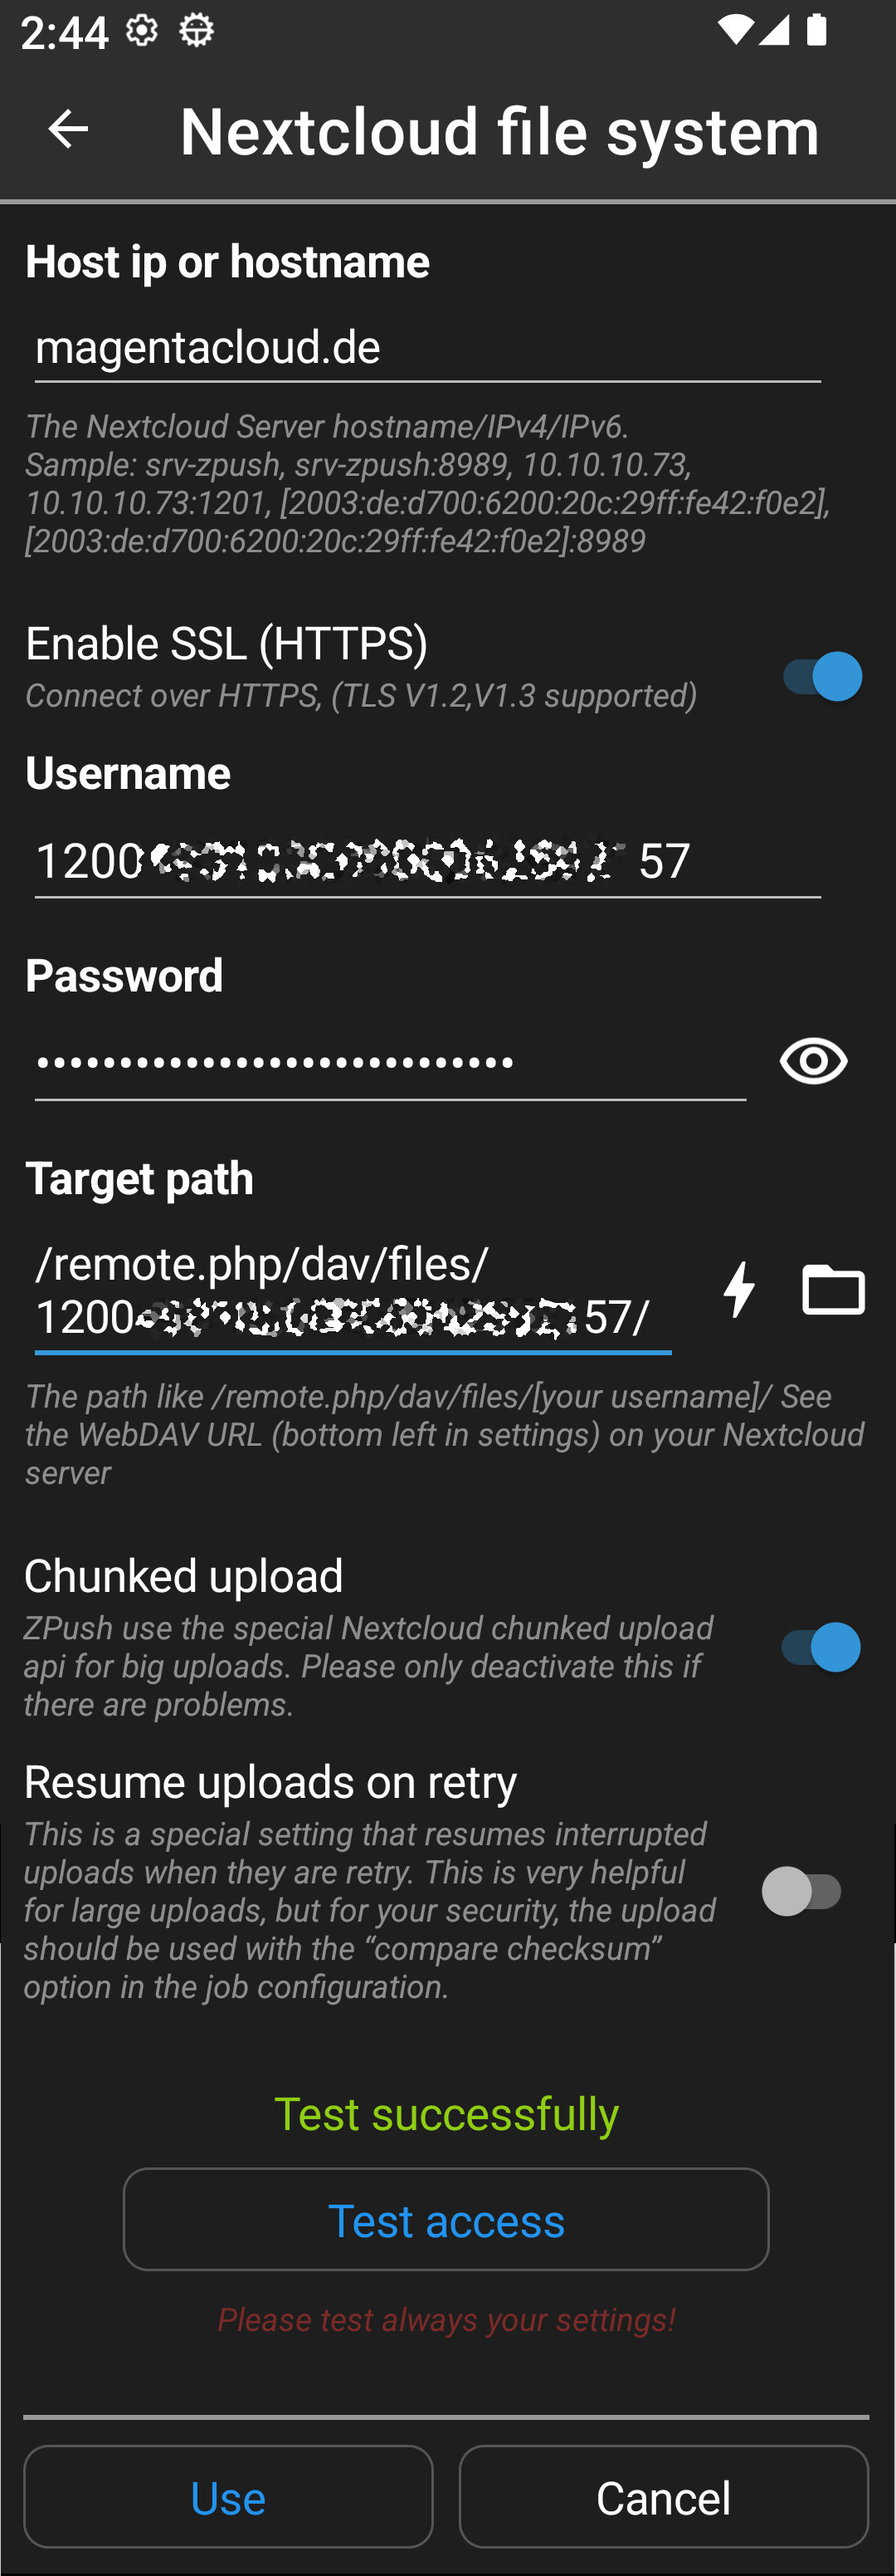
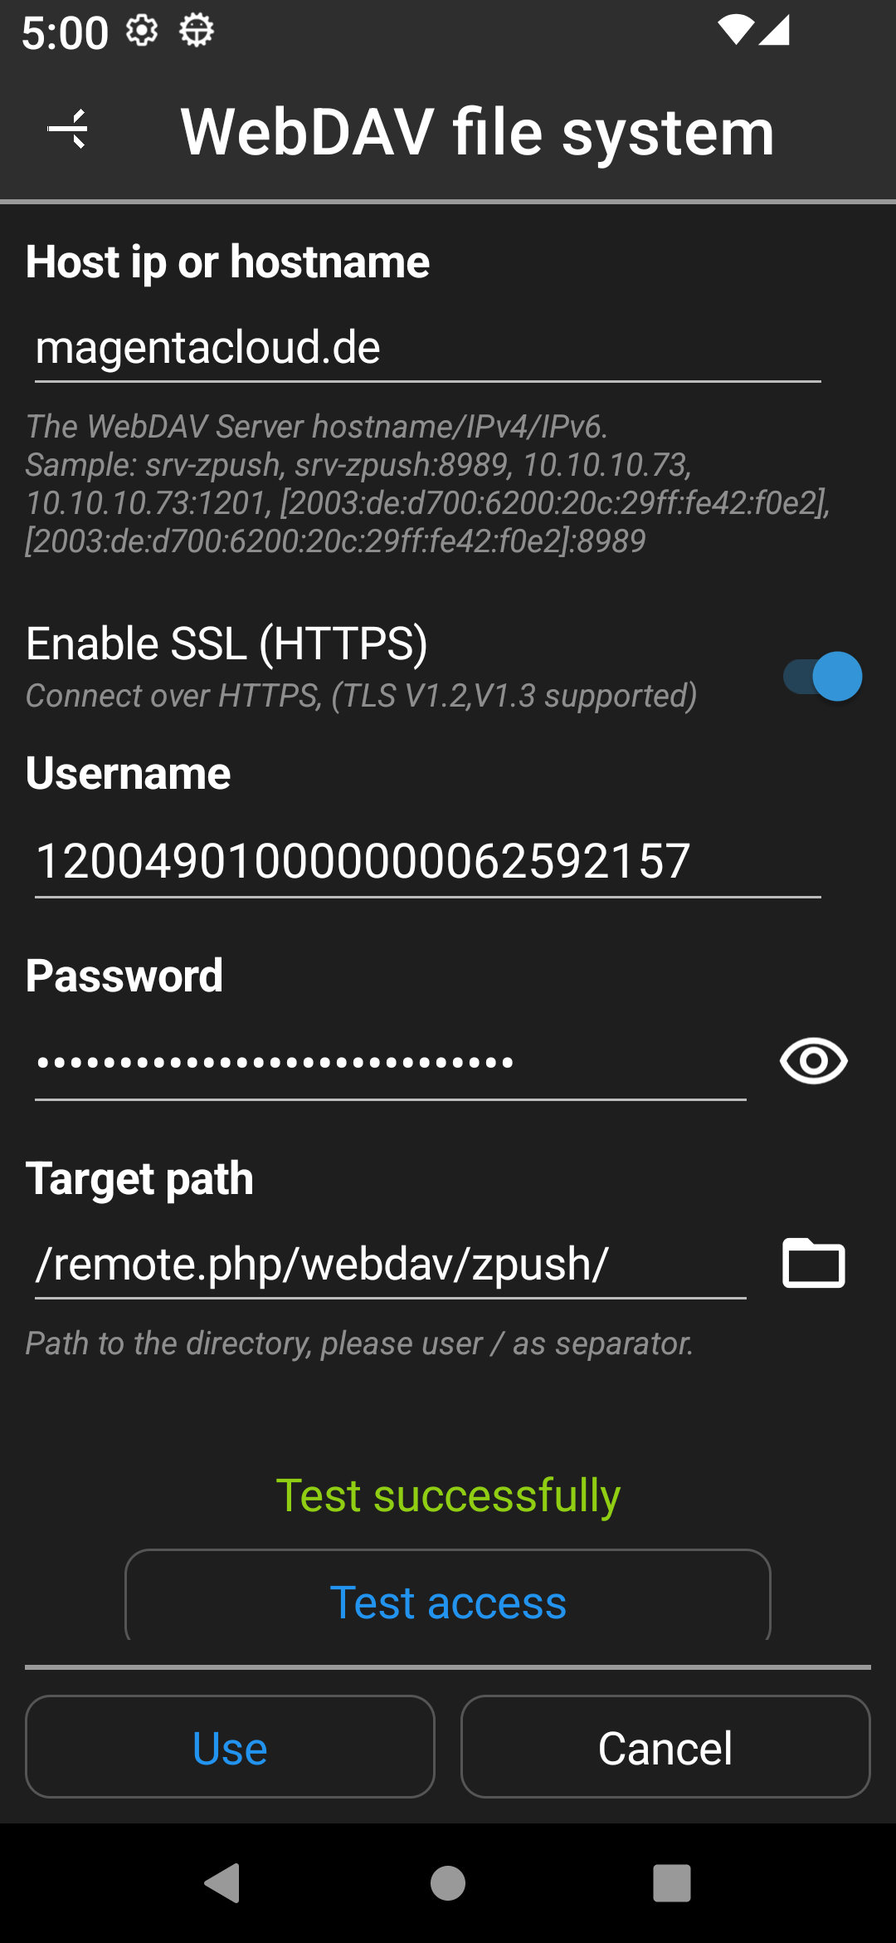
change MangentaCLOUD to  WebDAV

diff --git a/docs/index.html b/docs/index.html
@@ -759,9 +759,7 @@
             <H2>MangentaCLOUD</H2>
             <p class="center">
                 ZPush works in conjunction with MangentaCLOUD and is
-                configured using the built-in “Nextcloud” or “WebDAV” driver.
-                The Nextcloud driver has the advantage of being able to handle even very large uploads.
-                In the following example, I use the Nextcloud driver.
+                configured using the built-in “WebDAV” driver.
 
             </p>
             <H3>Step 1: Add a new device in MangentaCLOUD</H3>
@@ -770,7 +768,7 @@
             <img class="image" src="images/magenta-cloud/mangenta_cloud_2.jpg">
             <H3>Step 3: Create a new ZPush job </H3>
             <p class="center">
-                Select Nextcloud as the driver and configure the following settings.
+                Select WebDAV as the driver and configure the following settings.
             </p>
 
             <img class="image" src="images/magenta-cloud/mangenta_cloud_zpush.jpg">
